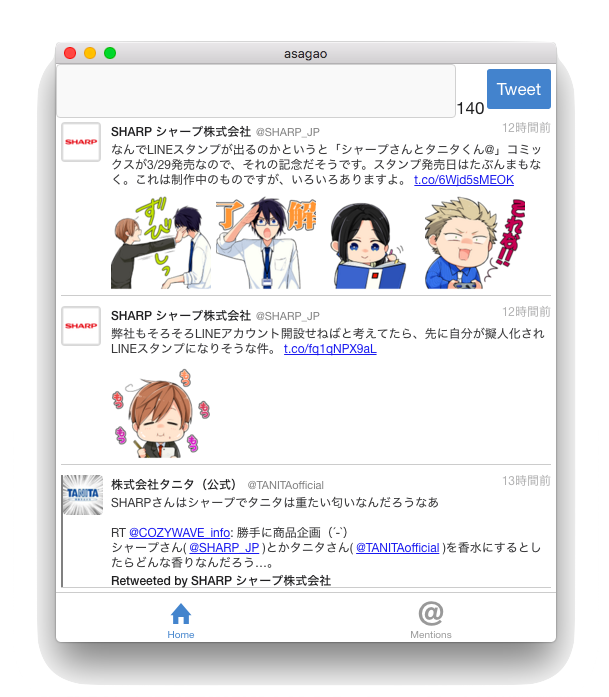
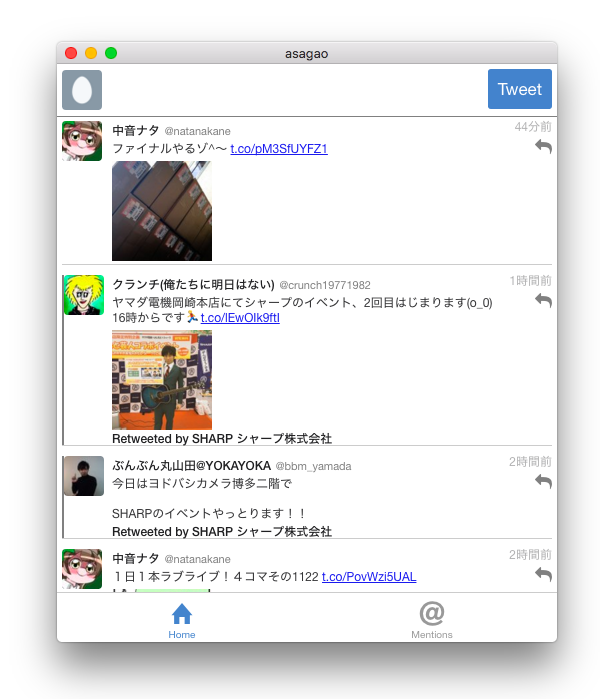
レイアウト修正

Changed region(s): [[0.09, 0.0603, 0.96, 0.9641], [0.45, 0.0603, 0.54, 0.0904]]

diff --git a/view/index.html b/view/index.html
@@ -21,8 +21,8 @@
 
 
     <ons-row class="tweet-area">
-      <ons-col width="10%">
-        <img v-bind:src="user.profile_image_url" class="timeline-image">
+      <ons-col width="10%" class="profile-image-col">
+        <img v-bind:src="user.profile_image_url" class="timeline-image" style="margin-top: 6px;">
       </ons-col>
       <ons-col width="70%">
         <textarea class="textarea textarea--transparent" id="tweettext" rows="3" width="100%" maxlength="140" v-model="tweettext"></textarea>

diff --git a/view/css/main.css b/view/css/main.css
@@ -15,6 +15,12 @@
   vertical-align: -4px;
 }
 
+.profile-image-col {
+  display: table-cell;
+  vertical-align: middle;
+  text-align: center;
+}
+
 .timeline {
   padding-top: 52px;
 }
@@ -85,6 +91,7 @@
   z-index: 10;
   left: 0;
   background-color: white;
+  border-bottom: 1px solid gray;
 }
 
 .tweet-length {
